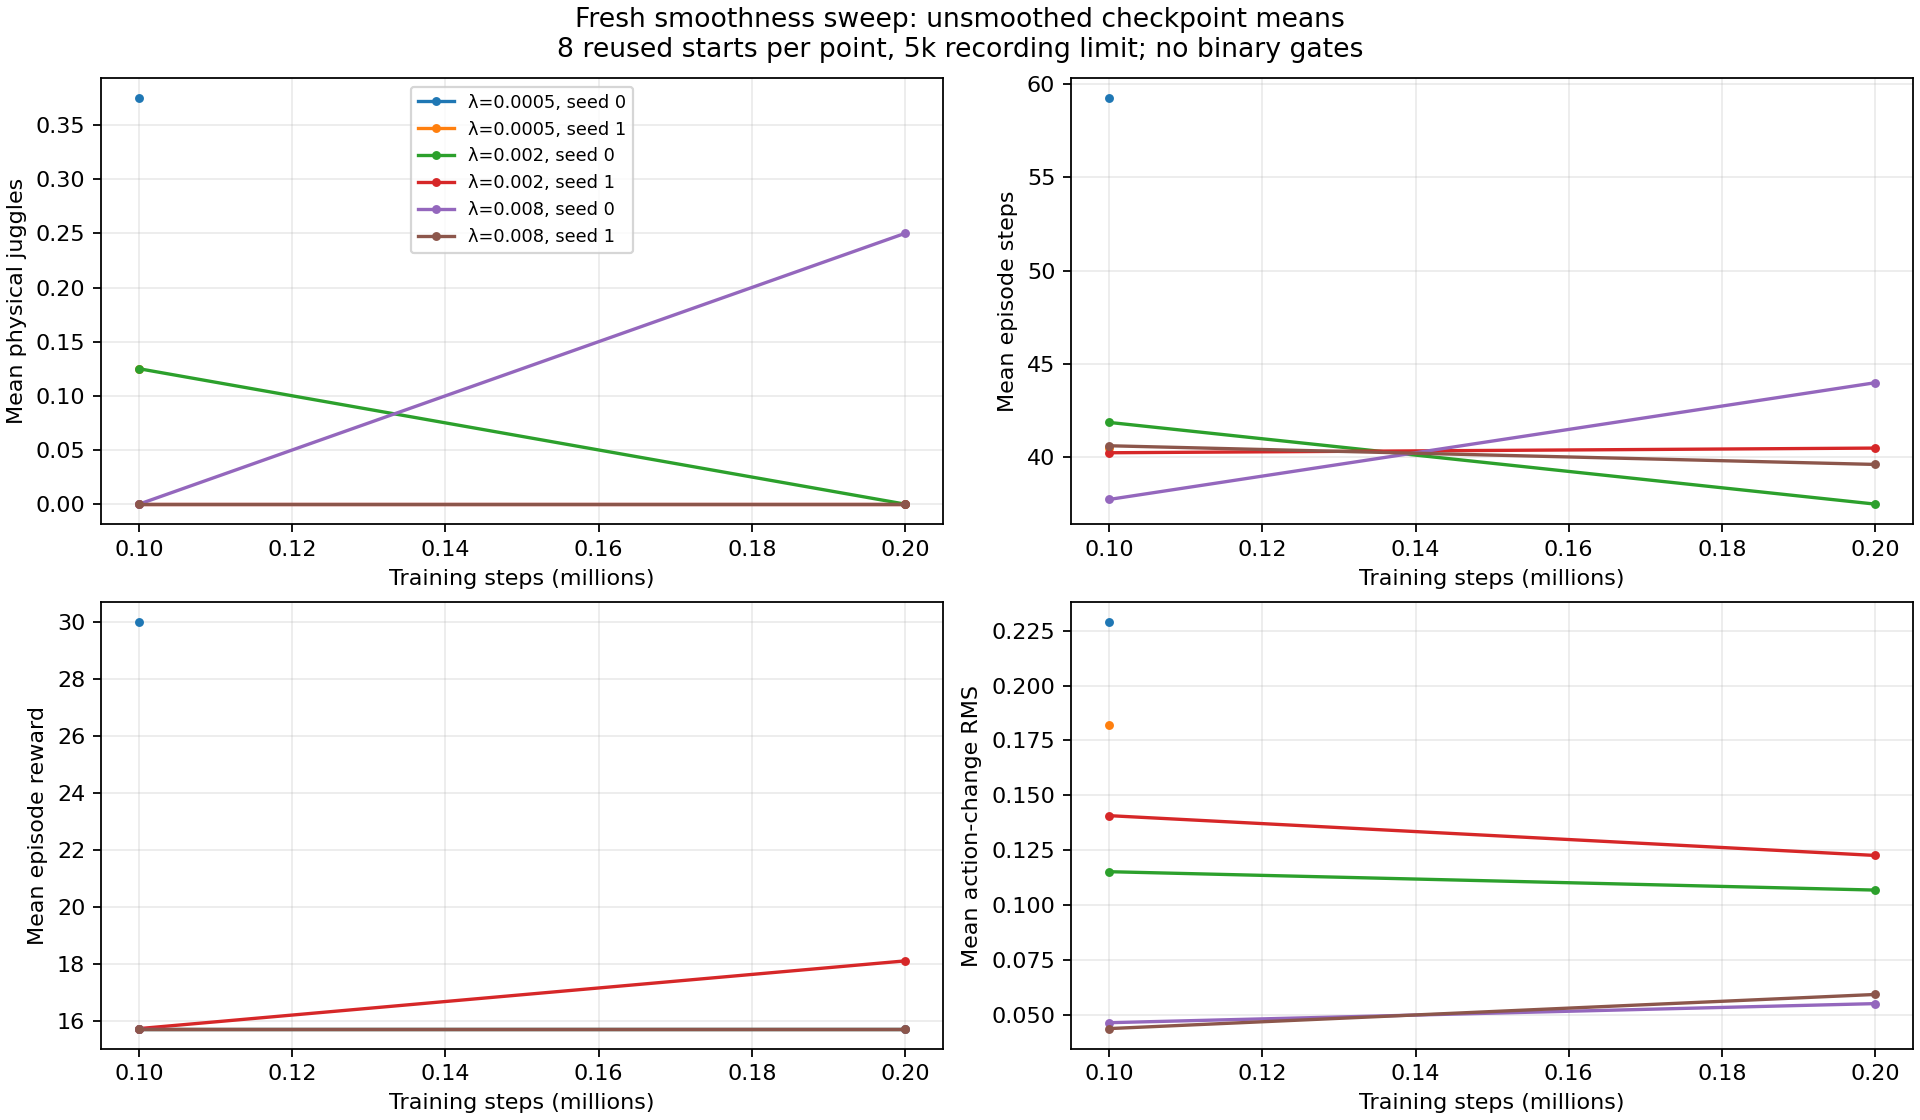
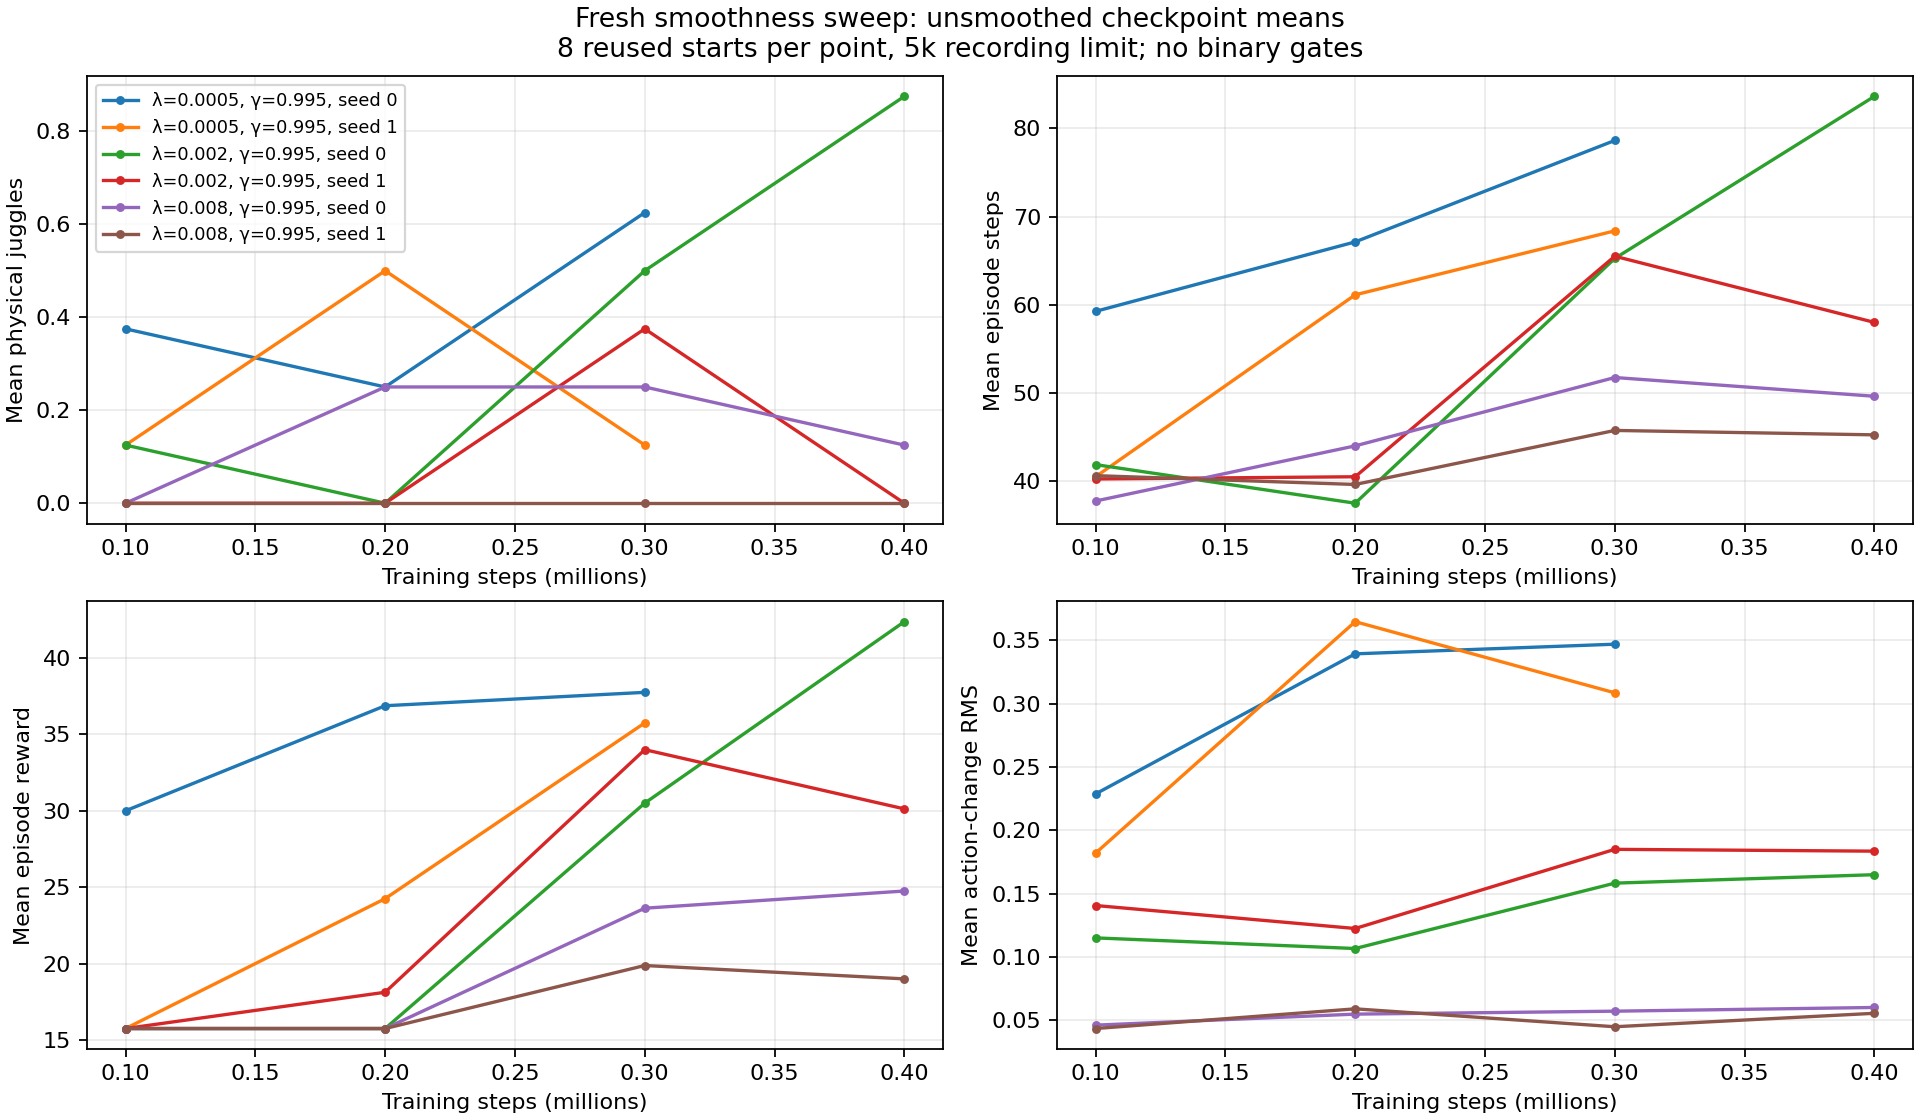
Launch replicated longer-discount smoothness comparison

diff --git a/scripts/analysis/juggle_smooth_sweep.py b/scripts/analysis/juggle_smooth_sweep.py
@@ -8,6 +8,7 @@ import csv
 from datetime import datetime, timezone
 import json
 import os
+import yaml
 import matplotlib
 matplotlib.use('Agg')
 import matplotlib.pyplot as plt
@@ -15,10 +16,15 @@ import matplotlib.pyplot as plt
 
 def main():
     report = Path('docs/juggling-smooth-sweep.md')
-    launch = json.loads(Path('docs/juggling-smooth-sweep-launch.json').read_text())
+    launches = []
+    for filename in ['docs/juggling-smooth-sweep-launch.json', 'docs/juggling-smooth-longdiscount-launch.json']:
+        if Path(filename).exists():
+            launches.extend(json.loads(Path(filename).read_text())['launches'])
     rows, statuses = [], []
     fig, axes = plt.subplots(2, 2, figsize=(12, 7), constrained_layout=True)
-    for run_index, run in enumerate(launch['launches']):
+    for run_index, run in enumerate(launches):
+        cfg = yaml.safe_load(Path(run['config']).read_text())
+        label = f"λ={cfg['actor_action_delta_penalty']:g}, γ={cfg['gamma']:g}, seed {cfg['seed']}"
         root = Path(run['root'])
         status_path = root/'status.json'
         status = json.loads(status_path.read_text())['status'] if status_path.exists() else 'submitted'
@@ -41,7 +47,7 @@ def main():
                 ['mean_true_state_juggles','restricted_mean_steps','mean_return','mean_action_delta_rms'],
                 ['Mean physical juggles','Mean episode steps','Mean episode reward','Mean action-change RMS']):
             if points:
-                ax.plot([s/1e6 for s,_ in points], [v[key] for _,v in points], marker='.', color=f'C{run_index}', label=f"λ={ {'0005':'0.0005','002':'0.002','008':'0.008'}[run['name'].split('_')[3]]}, seed {run['manifest']['seed']}")
+                ax.plot([s/1e6 for s,_ in points], [v[key] for _,v in points], marker='.', color=f'C{run_index}', label=label)
             ax.set(xlabel='Training steps (millions)', ylabel=ylabel)
             ax.grid(alpha=.25)
         for p in sorted(root.glob('paired_*/results.json')):
@@ -64,10 +70,10 @@ def main():
     with table.open('w') as f:
         writer=csv.DictWriter(f,fieldnames=fields,lineterminator='\n');writer.writeheader();writer.writerows(rows)
     lines=['# Smoothness sweep progress','', 'Generated '+datetime.now(timezone.utc).isoformat()+' from saved artifacts; no new rollouts.', '',
-        'Each coefficient (0.0005, 0.002, 0.008) has two independent fresh training seeds. Simulator, sensing, control and DR remain unchanged. GPU ceiling: 16 total user allocations, including other jobs. Training seeds remain separate curves; starts within one run are not training-seed replications.', '',
+        'Original sweep: each coefficient (0.0005, 0.002, 0.008) has two fresh training seeds at gamma 0.995. An additional pair uses coefficient 0.0005 and gamma 0.999. Original checkpoints are every 100k steps; the additional pair saves every 500k for storage. All budgets are 6M. Simulator, sensing, control and DR remain unchanged. GPU ceiling: 16 total user allocations, including other jobs. Training seeds remain separate curves; starts within one run are not training-seed replications.', '',
         '| Run | Slurm job | Saved runner status |','|---|---|---|']
     lines += [f'| {n} | {j} | {s} |' for n,j,s in statuses]
-    lines += ['',f'![Checkpoint metrics]({figure.name})' if rows else 'Checkpoint figures are unavailable until the first saved evaluation.', '',f'[Raw summary CSV]({table.name}); [launch provenance](juggling-smooth-sweep-launch.json).', '',
+    lines += ['',f'![Checkpoint metrics]({figure.name})' if rows else 'Checkpoint figures are unavailable until the first saved evaluation.', '',f'[Raw summary CSV]({table.name}); [original launch provenance](juggling-smooth-sweep-launch.json); [longer-discount pair](juggling-smooth-longdiscount-launch.json).', '',
         'Plots use saved 8-start 5k online-actor validation only. The CSV separately labels 32-start 20k online/target tests; do not mix these protocols. Physical juggles use true simulated trajectories; reward is the environment episode sum. Recording limits truncate counts and durations. Action-change RMS is a command diagnostic, not measured energy or UR5 safety. Physical speed/acceleration/jerk distributions are stored in each matched test’s local `motion_metrics.json`, with first-250-step and whole-episode estimates. Short episodes still have different exposure and visited states.', '',
         'No new policy-quality result yet.' if not rows else 'Curves are descriptive repeated-validation results. Independent longer tests and qualitative review follow candidate comparison; no binary acceptance gate is used.']
     lines += ['', 'Measurement clarification: [actual PID-target replay audit](../notes/scratch/experiments/2026-11-01_22-59_pid-target-replay-audit.md). Legacy `target_delta_rms_m` is a scaled displacement-change proxy, not direct PID-target telemetry.']

diff --git a/notes/scratch/experiments/2026-11-01_23-09_smooth-long-discount-pair.md b/notes/scratch/experiments/2026-11-01_23-09_smooth-long-discount-pair.md
@@ -1,0 +1,33 @@
+# Two fresh trials combine a weak action-change penalty with longer discounting
+
+- **Date**: 2026-11-01 23:09 UTC launch/writeup.
+- **Status**: in-flight
+- **Run dirs**: `runs/td3/noisy_history_smooth_0005_g0999_20261101_seed{0,1}`
+- **Configs**: [seed 0](../../../configs/td3/sustained/noisy_history_smooth_0005_g0999_seed0.yaml), [seed 1](../../../configs/td3/sustained/noisy_history_smooth_0005_g0999_seed1.yaml)
+- **Related**: [six weaker-penalty trials](2026-11-01_22-48_weaker-smoothness-sweep.md), [previous longer-discount scratch trial](2026-10-31_19-00_history-training-plots.md), [actual target-motion audit](2026-11-01_22-59_pid-target-replay-audit.md).
+
+## Hypothesis and controls
+
+Test whether gamma 0.999 with the weak action-change coefficient 0.0005 offers a better long-duration juggling/motion tradeoff than the current gamma-0.995 sweep. The earlier unregularized longer-discount final target averaged 198.63 physical juggles and 14,141.53 episode steps on the reused 32-start 20k comparison. That does not prove this combination will improve performance; it motivates the comparison while the original six learners continue unchanged.
+
+Both new policies initialize actor, critics and history encoder randomly and train for 6M steps. Relative to the previous longer-discount scratch recipe, only run name, coefficient, replication seed and checkpoint cadence differ. Gamma is 0.999, action-change coefficient 0.0005, and checkpoint interval 500k rather than 100k to reduce storage use. Relative to the gamma-0.995 weak-penalty pair, discount and checkpoint cadence differ. The cadence affects available validation observations, so do not compare mismatched latest checkpoints as fixed-budget results. Paired 1M/3M/6M tests remain at identical training steps.
+
+The actor objective is still normalized `(1-gamma)*Q` plus the same squared action-change cost. Raw environment reward is unchanged; actor-loss magnitudes across discounts are not a performance metric. Physical/sensed juggles, episode steps, reward and motion distributions remain primary, without binary acceptance gates.
+
+## Launch and invariants
+
+Slurm jobs **115866** (seed 0) and **115867** (seed 1) were submitted and confirmed running on slurm-node-008 and slurm-node-009 respectively. Each requests one GPU, six CPUs, 32G memory and an 18-hour limit. The [launch record](../../../docs/juggling-smooth-longdiscount-launch.json) contains exact submission timestamps and batch sources; runner starts were 2026-11-01 23:09:03.312581 UTC (seed 0) and 23:09:04.068727 UTC (seed 1), or 17:09:03/04 -0600 America/Chicago. These are process-start recording milestones, distinct from this writeup's recording time. Saved trainer arguments independently confirm gamma 0.999, coefficient 0.0005, checkpoint interval 500k, null model path and no history warm start.
+
+GPU requests were counted before each submission, including pending and running jobs: counts were nine then ten, yielding **11 total user GPUs** after both submissions, including the three preexisting allocations. The 16-GPU ceiling is preserved. The separate long-reference job uses no GPU. Disk headroom was approximately 59.6 GiB; saving every 500k reduces new checkpoint storage without deleting historical artifacts.
+
+Canonical environment/scratch guards and exact effective-YAML differences passed before launch. Simulator/base-env/config hashes match the reviewed six-trial manifest and previous strong-penalty launch. The simulator remains at the same reviewed branch implementation with default-false optional single-sample history disabled. Noise, occlusions, delay/interpolation, observation sampling, PID, action smoothing, geometry, contacts, limits and the full established DR distribution are unchanged. No pretrained weights or residual base policy is used. No shared trainer/updater/evaluator source was edited while the original six jobs run.
+
+## Testing and artifacts
+
+The same [durable trial runner](../../../scripts/td3/extras/run_juggle_smooth_trial.py) attaches frozen online and target tests at 1M/3M/6M: 32 reused starts 700000–700031, 20k-step recording limit. Built-in eight-start 5k validation now occurs every 500k. The wrapper also retains its final 32-start 10k protocol from seed 200000. Physical motion distributions are calculated read-only from saved trajectories. Legacy `target_delta_rms_m` is a displacement-change proxy; direct PID-target measurements require the separately verified replay diagnostic.
+
+[Progress report](../../../docs/juggling-smooth-sweep.md), [raw summary CSV](../../../docs/juggling-smooth-sweep.csv) and its generator now include both launch records, showing gamma and seed explicitly in curve labels. Existing six-trial results remain separate curves. No result or figure from the two new policies is available yet. Original-sweep 100k–300k results are early diagnostics, not evidence of final quality.
+
+Reproduce a fresh trial using the exact command/manifest in the [launch record](../../../docs/juggling-smooth-longdiscount-launch.json). Regenerate the report with `.venv/bin/python -m scripts.analysis.juggle_smooth_sweep`. Checkpoints, TensorBoard events, milestone statuses, frozen bundles, NPZs and GIFs remain under the ignored run roots. Source/config hashes and commands are tracked for review. Verified Python source compilation, effective configurations, live Slurm handles, documentation links/anchors/TOCs and whitespace; no new implementation math needs additional regression tests for this launch.
+
+The prior goal turn was a verified wait on live jobs. This turn makes new progress by launching the controlled longer-discount pair; the research goal remains active and unsolved.

diff --git a/docs/juggling-smooth-sweep.md b/docs/juggling-smooth-sweep.md
@@ -1,8 +1,8 @@
 # Smoothness sweep progress
 
-Generated 2026-11-01T23:01:25.684148+00:00 from saved artifacts; no new rollouts.
+Generated 2026-11-01T23:11:16.026076+00:00 from saved artifacts; no new rollouts.
 
-Each coefficient (0.0005, 0.002, 0.008) has two independent fresh training seeds. Simulator, sensing, control and DR remain unchanged. GPU ceiling: 16 total user allocations, including other jobs. Training seeds remain separate curves; starts within one run are not training-seed replications.
+Original sweep: each coefficient (0.0005, 0.002, 0.008) has two fresh training seeds at gamma 0.995. An additional pair uses coefficient 0.0005 and gamma 0.999. Original checkpoints are every 100k steps; the additional pair saves every 500k for storage. All budgets are 6M. Simulator, sensing, control and DR remain unchanged. GPU ceiling: 16 total user allocations, including other jobs. Training seeds remain separate curves; starts within one run are not training-seed replications.
 
 | Run | Slurm job | Saved runner status |
 |---|---|---|
@@ -12,10 +12,12 @@ Each coefficient (0.0005, 0.002, 0.008) has two independent fresh training seeds
 | noisy_history_smooth_002_20261101_seed1 | 115861 | training |
 | noisy_history_smooth_008_20261101_seed0 | 115862 | training |
 | noisy_history_smooth_008_20261101_seed1 | 115863 | training |
+| noisy_history_smooth_0005_g0999_20261101_seed0 | 115866 | training |
+| noisy_history_smooth_0005_g0999_20261101_seed1 | 115867 | training |
 
 ![Checkpoint metrics](juggling-smooth-sweep.png)
 
-[Raw summary CSV](juggling-smooth-sweep.csv); [launch provenance](juggling-smooth-sweep-launch.json).
+[Raw summary CSV](juggling-smooth-sweep.csv); [original launch provenance](juggling-smooth-sweep-launch.json); [longer-discount pair](juggling-smooth-longdiscount-launch.json).
 
 Plots use saved 8-start 5k online-actor validation only. The CSV separately labels 32-start 20k online/target tests; do not mix these protocols. Physical juggles use true simulated trajectories; reward is the environment episode sum. Recording limits truncate counts and durations. Action-change RMS is a command diagnostic, not measured energy or UR5 safety. Physical speed/acceleration/jerk distributions are stored in each matched test’s local `motion_metrics.json`, with first-250-step and whole-episode estimates. Short episodes still have different exposure and visited states.
 

diff --git a/docs/agent_logbook.md b/docs/agent_logbook.md
@@ -6,6 +6,7 @@ Entries and contents are ordered newest first; IDs remain permanent.
 
 ## Table of contents
 
+- [A051 — Extend scratch smoothness research with a replicated discount comparison](#a051)
 - [A050 — Audit actual controller targets and publish exact-replay and GIF evidence](#a050)
 - [A049 — Attach longer independent reference testing while six learners advance](#a049)
 - [A048 — Launch replicated weaker smoothness sweep under the GPU ceiling](#a048)
@@ -56,6 +57,16 @@ Entries and contents are ordered newest first; IDs remain permanent.
 - [A003 — Restore original sensing and matched comparison](#a003)
 - [A002 — Clean diagnostics and evaluation](#a002)
 - [A001 — Continuing-task implementation](#a001)
+
+<a id="a051"></a>
+
+## A051 — 2026-11-01 17:10:39 -0600 — Extend scratch smoothness research with a replicated discount comparison
+
+Launched two controlled longer-discount smoothness trials and extended the progress report to distinguish discount and seed.
+
+Revalidated all live jobs, GPU counts, disk headroom, canonical environment/scratch guards and simulator hashes. Counted nine then ten GPUs immediately before adding one each. New configurations change only permitted algorithm/artifact fields; no live trainer/evaluator source changes. Slurm confirms both new jobs running. Existing diagnostics confirm nonzero compiled regularization terms in all six original learners. The reference test remains live; no observation timeout was treated as a stopped process and no learner was restarted. Related: [E051](experiment_logbook.md#e051).
+
+[Detailed note and reproduction](../notes/scratch/experiments/2026-11-01_23-09_smooth-long-discount-pair.md); [launch provenance](juggling-smooth-longdiscount-launch.json); [raw progress](juggling-smooth-sweep.md). Heading records documentation time; exact submission/runner times are preserved in provenance. New-pair figures are unavailable until its first 500k validation.
 
 <a id="a050"></a>
 

diff --git a/docs/experiment_logbook.md b/docs/experiment_logbook.md
@@ -6,6 +6,7 @@ Entries and contents are ordered newest first; IDs remain permanent.
 
 ## Table of contents
 
+- [E051 — Launch a weak-penalty longer-discount pair from scratch](#e051)
 - [E050 — Verify actual PID-target motion with exact saved-action replays](#e050)
 - [E049 — Test the fixed retained target on 32 longer new starts](#e049)
 - [E048 — Launch six weaker-penalty scratch trials and measure sampled physical motion](#e048)
@@ -56,6 +57,16 @@ Entries and contents are ordered newest first; IDs remain permanent.
 - [E003 — Original-sensing fine-tuning regression](#e003)
 - [E002 — Clean-simulation iterations and failed transfer](#e002)
 - [E001 — Initial sustained-juggling studies](#e001)
+
+<a id="e051"></a>
+
+## E051 — 2026-11-01 17:10:39 -0600 — Launch a weak-penalty longer-discount pair from scratch
+
+Two new fresh trials test coefficient 0.0005 with gamma 0.999 while the six gamma-0.995 learners continue.
+
+**Running jobs:** 115866/115867, seeds 0/1, 6M-step budgets. Simulator/control/sensing/DR unchanged; exact config differences and reviewed source hashes passed. Checkpoints every 500k reduce storage; matched online/target tests remain at 1M/3M/6M on reused 32-start 20k protocol. Eleven total user GPU requests including existing jobs, below 16. Hypothesis motivated by prior longer-discount results, not early selection of a winner. No performance result yet from the new pair. Goal remains active; no binary gates or new real-robot operation. Related: [E048](#e048), [E049](#e049), [E050](#e050).
+
+[Detailed note and reproduction](../notes/scratch/experiments/2026-11-01_23-09_smooth-long-discount-pair.md); [launch provenance](juggling-smooth-longdiscount-launch.json); [raw progress](juggling-smooth-sweep.md). Heading records documentation time; exact submission/runner times are preserved in provenance. New-pair figures are unavailable until its first 500k validation.
 
 <a id="e050"></a>
 

diff --git a/notes/scratch/experiments/INDEX.md b/notes/scratch/experiments/INDEX.md
@@ -131,3 +131,4 @@ Format: `- YYYY-MM-DD HH:MM | topic | one-sentence outcome | [file](path)`
 - 2026-11-01 22:48 | Weaker smoothness sweep | Six fresh 6M trials at three weaker coefficients and two seeds are running; added read-only physical motion distributions. | [note](2026-11-01_22-48_weaker-smoothness-sweep.md)
 - 2026-11-01 22:52 | Longer fixed-target reference | CPU-only 32-start 100k recording test of the unchanged retained 3.6M target is running alongside six smoothness learners. | [note](2026-11-01_22-52_long-juggle-reference.md)
 - 2026-11-01 22:59 | PID target replay audit | 64 exact saved-action replays distinguish filtered PID-target changes from the legacy displacement-change proxy; published an existing strong-penalty GIF. | [note](2026-11-01_22-59_pid-target-replay-audit.md)
+- 2026-11-01 23:09 | Longer-discount smoothness pair | Two fresh gamma-0.999 coefficient-0.0005 trials submitted/running; 11 total user GPU requests, no performance result yet. | [note](2026-11-01_23-09_smooth-long-discount-pair.md)
